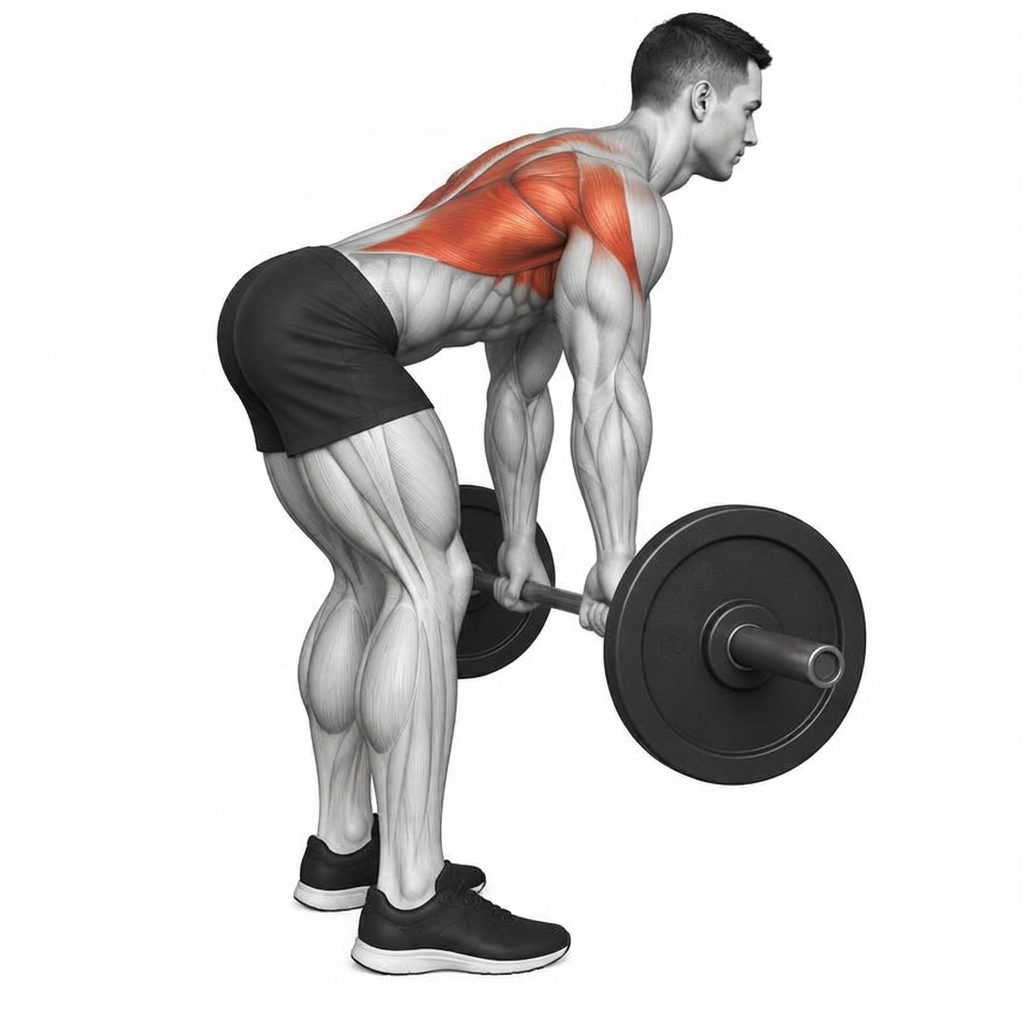
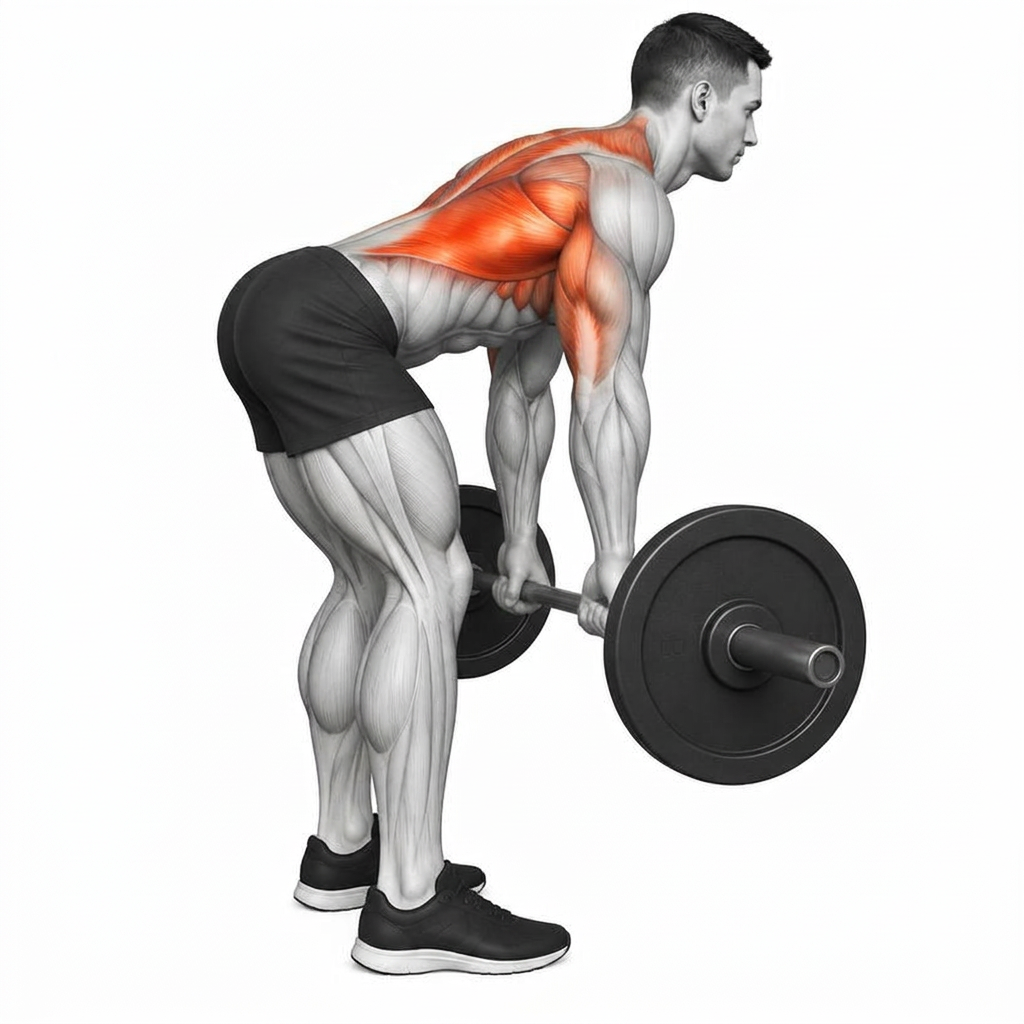
Changes

diff --git a/roadmap.md b/roadmap.md
@@ -14,3 +14,10 @@
 - [x] Realistic muscle pictures + animated form demos in exercise details
 - [x] Browse-by-muscle picture grid in the library
 - [ ] Step 3: weekly muscle recovery heatmap on Progress (awaiting go-ahead)
+
+## Exercise demo corrections
+- [ ] Rowing: real contracted barbell row frame + rowing machine demo
+- [ ] Chest: incline dumbbell press + machine chest press demos
+- [ ] Shoulders: dumbbell shoulder press + lateral raise demos
+- [ ] Legs: leg press machine demo
+- [ ] Arms: cable triceps pushdown demo
